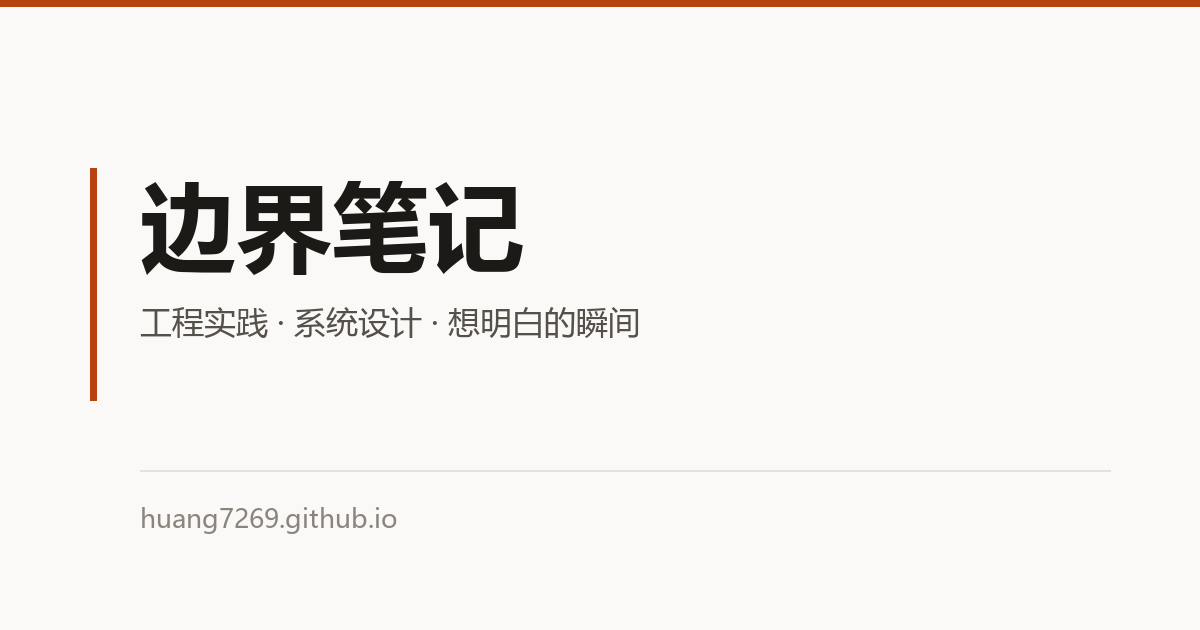
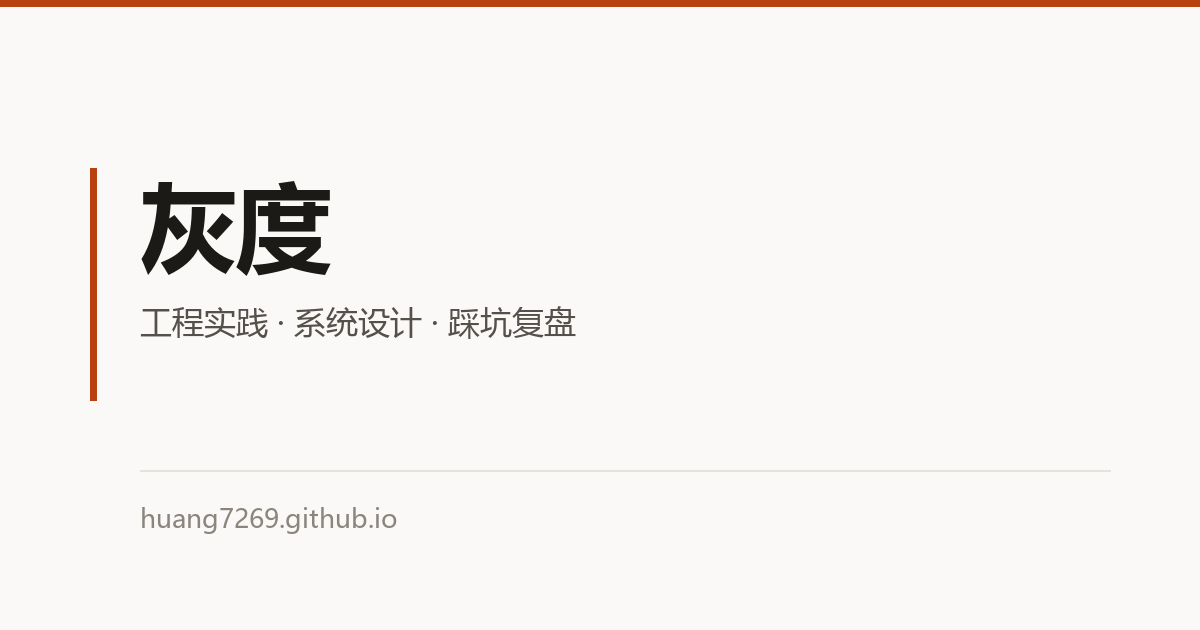
chore: rename site to 灰度, drop real name from about page

Changed region(s): [[0.0925, 0.2714, 0.4317, 0.4524], [0.37, 0.4825, 0.555, 0.5429]]

diff --git a/src/lib/site.ts b/src/lib/site.ts
@@ -3,11 +3,11 @@
  * 注意：域名还要同步改 astro.config.mjs 里的 `site`。
  */
 export const SITE = {
-  title: '边界笔记',
-  tagline: '工程实践 · 系统设计 · 想明白的瞬间',
+  title: '灰度',
+  tagline: '工程实践 · 系统设计 · 踩坑复盘',
   description:
     '一个程序员的技术笔记本。记录工程实践、系统设计、以及那些踩过坑才想明白的事。',
-  author: '黄棒',
+  author: '灰度',
   url: 'https://huang7269.github.io',
   github: 'https://github.com/huang7269',
   email: 'huang7269@outlook.com',

diff --git a/scripts/make-og.py b/scripts/make-og.py
@@ -18,8 +18,8 @@ SOFT = (85, 80, 74)
 FAINT = (139, 133, 125)
 ACCENT = (184, 66, 15)
 
-TITLE = "边界笔记"
-TAGLINE = "工程实践 · 系统设计 · 想明白的瞬间"
+TITLE = "灰度"
+TAGLINE = "工程实践 · 系统设计 · 踩坑复盘"
 FOOTER = "huang7269.github.io"
 
 FONT_CANDIDATES_BOLD = [

diff --git a/README.md b/README.md
@@ -1,4 +1,4 @@
-# 边界笔记 · 个人技术博客
+# 灰度 · 个人技术博客
 
 一个用 [Astro](https://astro.build) 构建的纯静态技术博客：Markdown 写作、零 JavaScript 运行时、无后端、无数据库。
 
